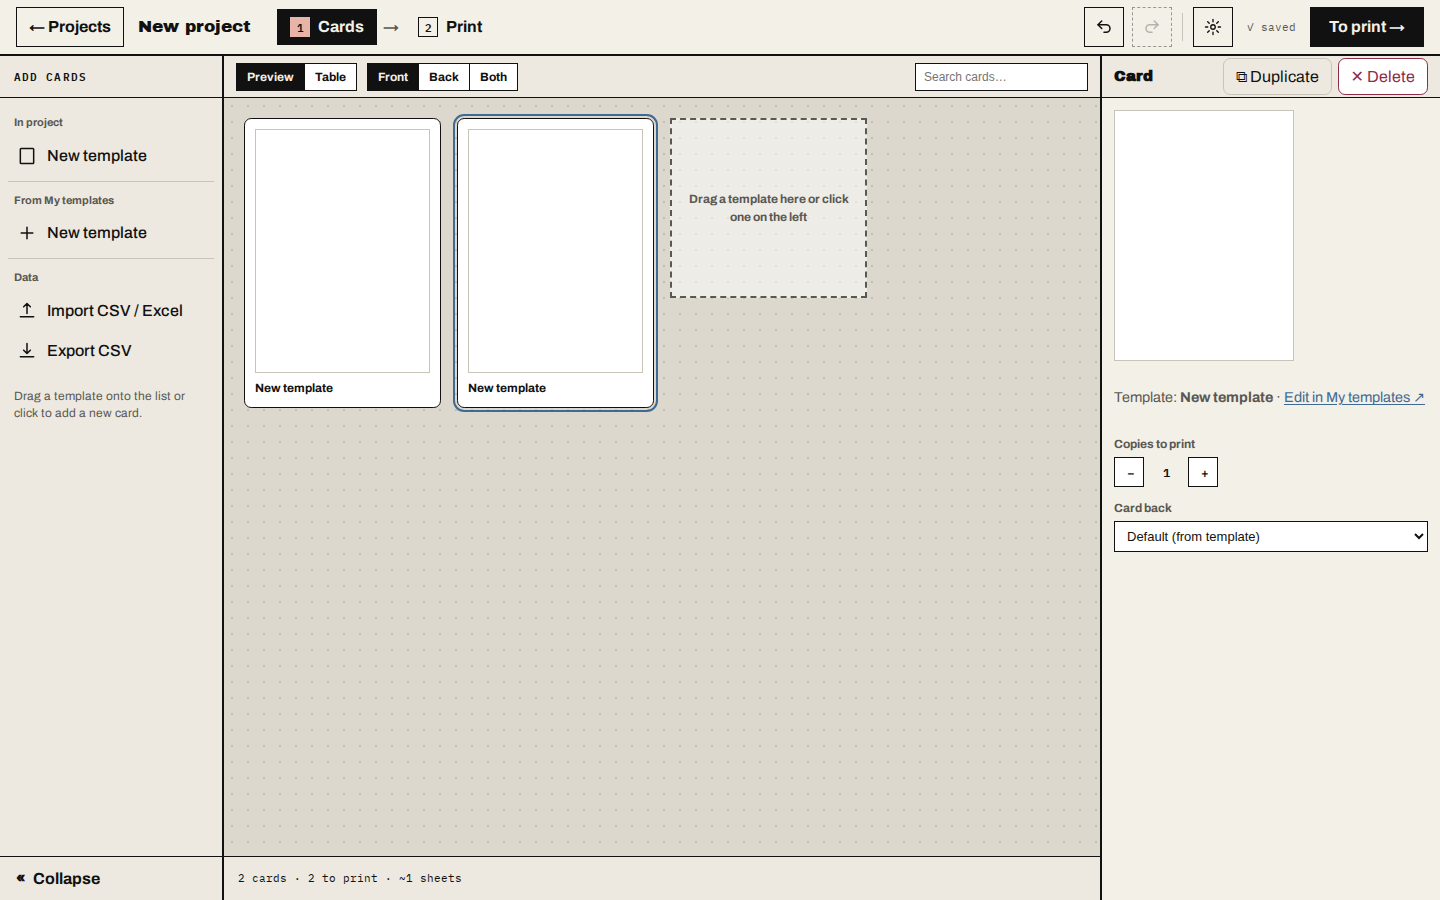
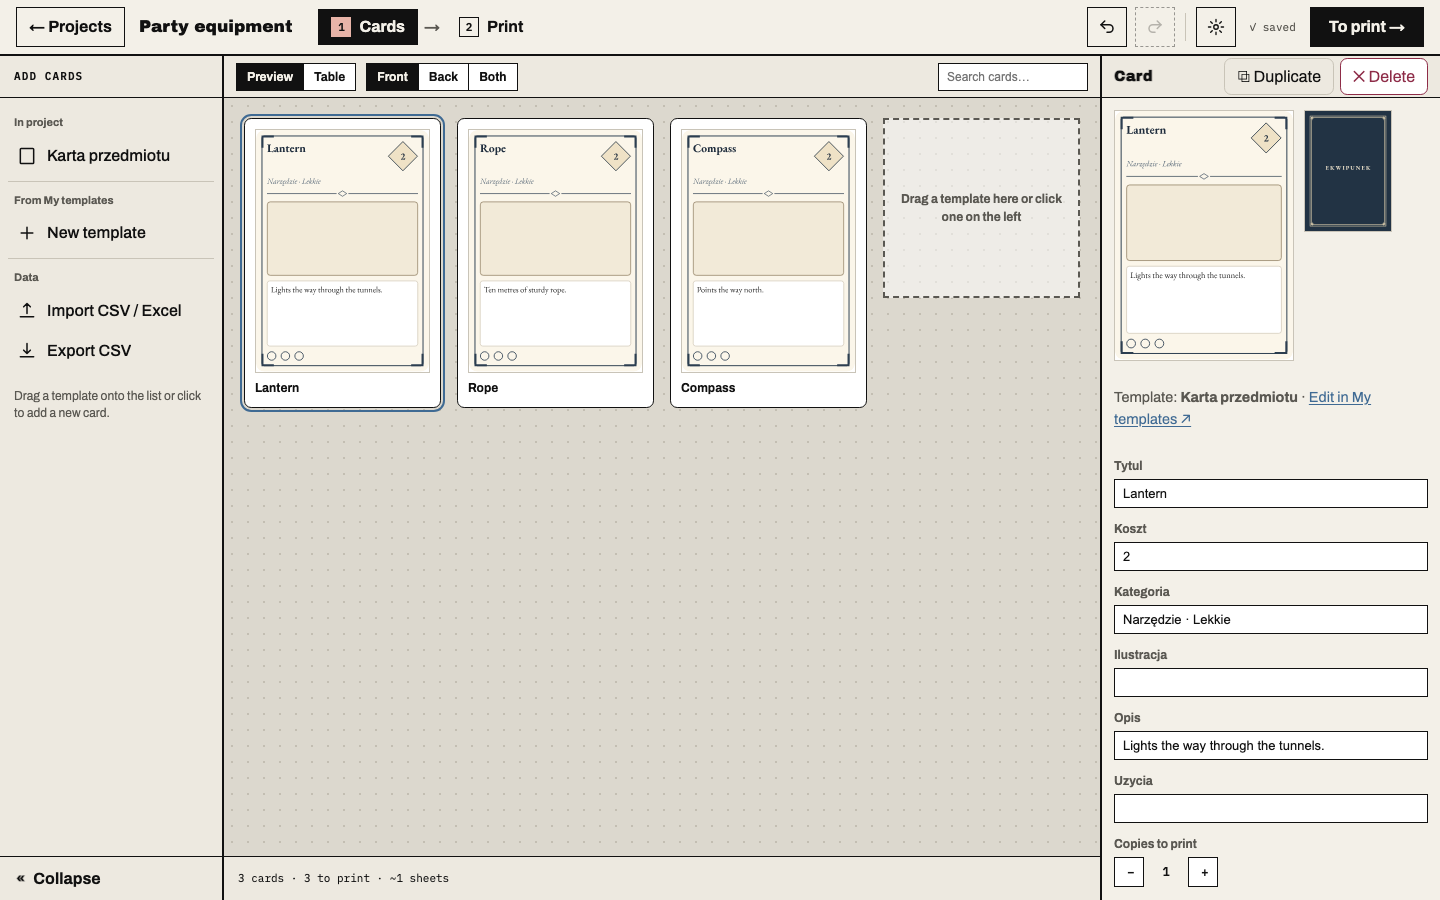
Odśwież zrzuty kart i ustawień druku w instrukcji (#148)

diff --git a/testy/zrzuty-instrukcji.spec.ts b/testy/zrzuty-instrukcji.spec.ts
@@ -11,7 +11,7 @@ import {
 
 /**
  * Generator zrzutów ekranu do instrukcji (D9). Domyślnie pomijany; uruchom:
- *   ZRZUTY_INSTRUKCJI=1 npx playwright test testy/zrzuty-instrukcji.spec.ts
+ *   ZRZUTY=1 npx playwright test testy/zrzuty-instrukcji.spec.ts
  *   python3 narzedzia/kwantyzuj-zrzuty.py
  * Zapisuje `public/instrukcja-zrzuty/<język>/<nazwa>.png` (1440×900, skala 1, jasny motyw, świeża
  * przeglądarka bez zapisanych projektów, więc dane są zawsze takie same). Napisy interfejsu bierze
@@ -36,7 +36,10 @@ for (const [jezyk, motyw] of JEZYKI_ZRZUTOW.flatMap((j) => motywy.map((m) => [j,
   const t = (k: keyof Slownik, p?: Record<string, string | number>) => podstaw(S[k], p);
 
   test.describe(`zrzuty ${galeria ? 'UI' : 'instrukcji'} (${jezyk}, ${motyw})`, () => {
-    test.skip(!galeria && !process.env.ZRZUTY_INSTRUKCJI, 'tylko przy włączonym generatorze');
+    test.skip(
+      !galeria && !process.env.ZRZUTY && !process.env.ZRZUTY_INSTRUKCJI,
+      'tylko przy włączonym generatorze',
+    );
     test.use({
       viewport: ROZMIAR_ZRZUTU,
       deviceScaleFactor: 1,
@@ -98,7 +101,7 @@ for (const [jezyk, motyw] of JEZYKI_ZRZUTOW.flatMap((j) => motywy.map((m) => [j,
       await expect(page.locator('.karta-podgladu')).toBeVisible({ timeout: 15000 });
     };
 
-    /** Tworzy projekt z zaimportowanego szablonu, dodaje dwie karty i otwiera krok „1 Karty”. */
+    /** Tworzy projekt z zaimportowanego szablonu, uzupełnia trzy karty i otwiera krok „1 Karty”. */
     const utworzProjektZKartami = async (page: Page) => {
       await importujSzablonDoBiblioteki(page);
       await page.goto('./#/');
@@ -113,11 +116,34 @@ for (const [jezyk, motyw] of JEZYKI_ZRZUTOW.flatMap((j) => motywy.map((m) => [j,
       await expect(page.getByRole('heading', { level: 1, name: t('karty.tytul') })).toBeVisible({
         timeout: 15000,
       });
-      // Dodaj drugą kartę z szablonu w lewym pasku, żeby na podglądzie było widać kilka kart.
-      await page.locator('.ui2-pasek-boczny .ui2-pasek-pozycja').first().click();
-      await page.locator('.ui2-pasek-boczny .ui2-pasek-pozycja').first().click();
-      await expect(page.locator('.karty-ui2-kafelek').first()).toBeVisible({ timeout: 15000 });
-      await page.locator('.karty-ui2-kafelek').first().click();
+      const dane =
+        jezyk === 'pl'
+          ? [
+              ['Latarnia', 'Oświetla drogę przez podziemia.'],
+              ['Lina', 'Dziesięć metrów mocnej liny.'],
+              ['Kompas', 'Wskazuje drogę na północ.'],
+            ]
+          : [
+              ['Lantern', 'Lights the way through the tunnels.'],
+              ['Rope', 'Ten metres of sturdy rope.'],
+              ['Compass', 'Points the way north.'],
+            ];
+      const szablon = page.locator('.ui2-pasek-boczny .ui2-pasek-pozycja').first();
+      const karty = page.getByTestId('kafelek-karty');
+      const panel = page.getByRole('complementary', { name: t('karty.panelTytul') });
+      for (const [i, [tytul, opis]] of dane.entries()) {
+        await szablon.click();
+        await expect(karty).toHaveCount(i + 1);
+        const karta = karty.nth(i);
+        await karta.click();
+        await panel.getByLabel('Tytul', { exact: true }).fill(tytul);
+        await panel.getByLabel('Opis', { exact: true }).fill(opis);
+        await expect(karta).toContainText(tytul);
+        await expect(karta.getByTestId('podglad-przod').locator('svg use').first()).toBeVisible();
+      }
+      await karty.first().click();
+      await page.locator('header.ui2-naglowek .ui2-stan-zapisu-btn').click();
+      await expect(page.locator('header.ui2-naglowek .ui2-stan-zapisu')).toBeVisible();
     };
 
     test('start', async ({ page }) => {
@@ -162,7 +188,9 @@ for (const [jezyk, motyw] of JEZYKI_ZRZUTOW.flatMap((j) => motywy.map((m) => [j,
         .click();
       const panel = page.getByRole('complementary', { name: t('kartka.opcjeDruku') });
       await expect(panel).toBeVisible({ timeout: 15000 });
-      await expect(page.locator('.strona-kartki svg').first()).toBeVisible({ timeout: 15000 });
+      const kartyWDruku = page.getByRole('navigation', { name: t('druk.kartyWDruku') });
+      await expect(kartyWDruku.getByRole('button', { pressed: true })).toHaveCount(3);
+      await expect(page.locator('.strona-kartki[data-strona] svg use').first()).toBeVisible();
       await zapisz(page, 'ustawienia');
     });
 
